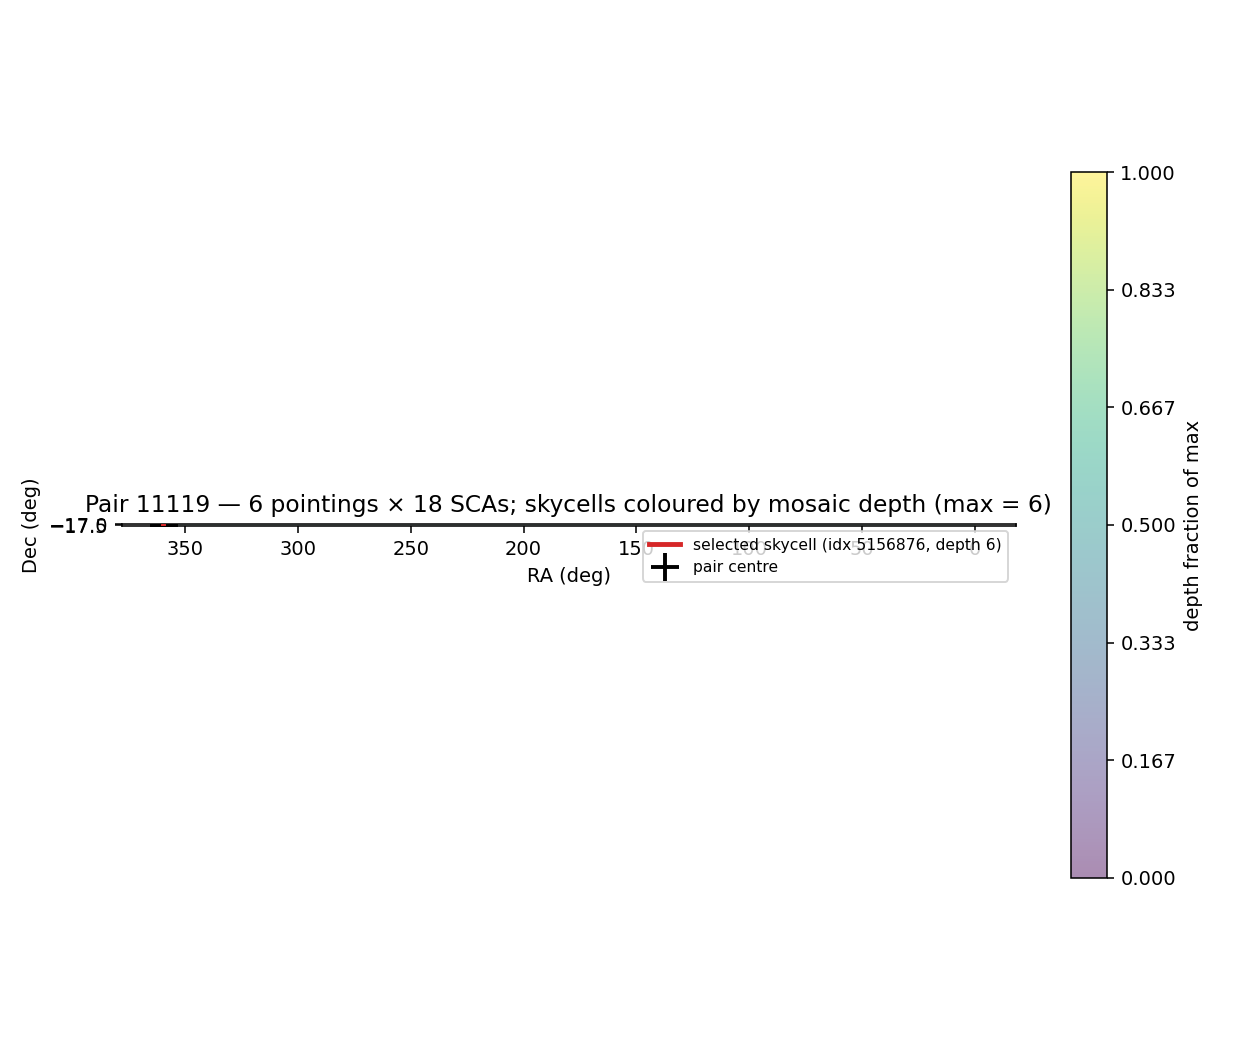
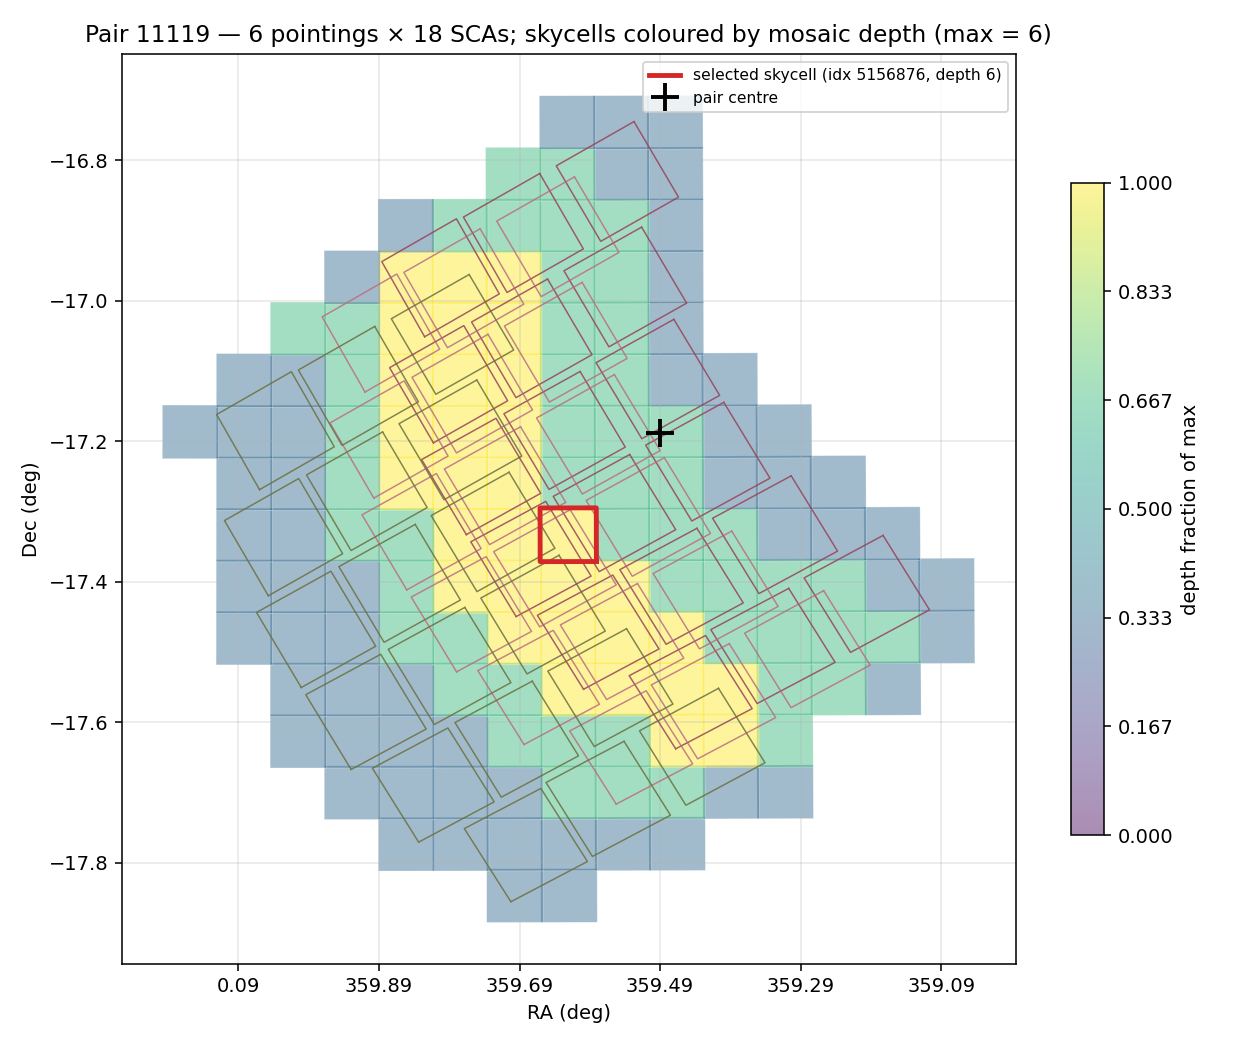
Phase 2: fix RA-wrap in coverage plot, add --n-skycells-per-pair
The per-pair coverage plot collapsed across the full 360° when the
pair sat near RA = 0° — polygon corners landed both at RA ≈ 359.x and
RA ≈ 0.x, and a naive `aspect='equal'` plot spanned 0→360°. Re-origin
all RA to (RA − pair-centre RA) wrapped to [−180°, +180°] when
drawing; relabel the x-axis ticks with the absolute RA (mod 360) so
the fix is transparent to the reader.

Also make the overlap table step idempotent: by default the script
now reads the ECSVs from a prior run. `--force` rebuilds from
scratch; `--plots-only` skips everything except plot regeneration.
Parameterise the pick with `--n-skycells-per-pair` so a future run
can increase from 1 to 2 or 5 without reworking the SCA loop.

diff --git a/scripts/detection/02_skycell_overlap.py b/scripts/detection/02_skycell_overlap.py
@@ -180,34 +180,45 @@ def enrich_with_skycell_meta(pt_table: pd.DataFrame) -> pd.DataFrame:
     return pt_table.merge(meta, on="skycell_idx")
 
 
-def select_one_skycell_per_pair(pt_table: pd.DataFrame,
-                                pointings: pd.DataFrame,
-                                target_depth: int = 6) -> pd.DataFrame:
-    """Pick one deepest + most-central skycell per pair."""
+def select_skycells_per_pair(pt_table: pd.DataFrame,
+                              pointings: pd.DataFrame,
+                              target_depth: int = 6,
+                              n_per_pair: int = 1) -> pd.DataFrame:
+    """Pick the `n_per_pair` deepest + most-central skycells per pair."""
     picks = []
     for pair_id, sub in pt_table.groupby("PAIR_ID"):
-        # Pair nominal centre = pointing RA/Dec (all 6 share centre)
         p_centre = pointings[pointings["PAIR_ID"] == pair_id].iloc[0]
         ra0, dec0 = p_centre["RA"], p_centre["DEC"]
-        # Must hit target_depth; if none, fall back to max depth in the pair
         max_depth = sub["n_pointings"].max()
         want = sub[sub["n_pointings"] == max(max_depth, target_depth)]
         if want.empty:
             want = sub[sub["n_pointings"] == max_depth]
-        # Central-most
         dra = np.minimum(np.abs(want["skycell_ra"] - ra0),
                          360.0 - np.abs(want["skycell_ra"] - ra0))
         ddec = np.abs(want["skycell_dec"] - dec0)
         d2 = (dra * np.cos(np.deg2rad(dec0))) ** 2 + ddec ** 2
-        best_idx = want.iloc[int(d2.values.argmin())]
-        picks.append(best_idx)
-    return pd.DataFrame(picks).reset_index(drop=True)
+        want = want.assign(_dist2=d2.values).sort_values("_dist2")
+        picks.append(want.head(n_per_pair).drop(columns="_dist2"))
+    return pd.concat(picks).reset_index(drop=True)
+
+
+def _ra_rel(ra: np.ndarray | float, ra0: float) -> np.ndarray | float:
+    """Return RA − ra0 wrapped to [−180°, +180°]. Used to draw near RA=0
+    without the 0/360 discontinuity collapsing the axis."""
+    return (np.asarray(ra) - ra0 + 180.0) % 360.0 - 180.0
 
 
 def plot_pair_coverage(pair_id: int, pointings: pd.DataFrame,
                        sca_table: pd.DataFrame, pt_table: pd.DataFrame,
                        selected_skycell_idx: int, out_path: Path) -> None:
-    """Per-pair coverage map: SCA footprints + skycell depth heat-map + pick."""
+    """Per-pair coverage map: SCA footprints + skycell depth heat-map + pick.
+
+    All RA coordinates are plotted as "RA − pair-centre RA", wrapped to
+    [−180°, +180°]. Axis ticks are relabelled with the absolute RA so
+    this is transparent to the reader. This is essential near RA = 0°:
+    without the re-origination, polygon corners at RA 359.x and 0.x
+    collapse the x-axis across 360°.
+    """
     import matplotlib.pyplot as plt
     from matplotlib.patches import Polygon
     from matplotlib.collections import PatchCollection
@@ -216,7 +227,9 @@ def plot_pair_coverage(pair_id: int, pointings: pd.DataFrame,
     sca_rows = sca_table[sca_table["PAIR_ID"] == pair_id]
     pt_rows = pt_table[pt_table["PAIR_ID"] == pair_id]
 
-    # SCA footprints
+    ra0, dec0 = ptr.iloc[0]["RA"], ptr.iloc[0]["DEC"]
+
+    # SCA footprints in absolute RA, converted to relative at plot time
     sca_polygons = {}
     for pidx, p in ptr.iterrows():
         world = galsim.CelestialCoord(p["RA"] * galsim.degrees,
@@ -228,7 +241,6 @@ def plot_pair_coverage(pair_id: int, pointings: pd.DataFrame,
             sca: sca_sky_corners(wcs) for sca, wcs in wcs_dict.items()
         }
 
-    # Skycell polygons (keyed by idx)
     skycell_idxs = pt_rows["skycell_idx"].unique().tolist()
     cells = SkyCells(skycell_idxs)
     skycell_corners = cells.radec_corners
@@ -236,13 +248,13 @@ def plot_pair_coverage(pair_id: int, pointings: pd.DataFrame,
 
     fig, ax = plt.subplots(figsize=(9, 7.5))
 
-    # Depth-coloured skycell polygons
     max_d = int(pt_rows["n_pointings"].max())
     cmap = plt.get_cmap("viridis")
     patches, colours = [], []
     for i, idx in enumerate(skycell_idxs):
-        poly = Polygon(skycell_corners[i], closed=True)
-        patches.append(poly)
+        rel_corners = skycell_corners[i].copy()
+        rel_corners[:, 0] = _ra_rel(rel_corners[:, 0], ra0)
+        patches.append(Polygon(rel_corners, closed=True))
         colours.append(depth_by_idx[idx] / max_d)
     pc = PatchCollection(patches, alpha=0.45, edgecolor="white", lw=0.3)
     pc.set_array(np.array(colours))
@@ -250,26 +262,25 @@ def plot_pair_coverage(pair_id: int, pointings: pd.DataFrame,
     pc.set_clim(0, 1)
     ax.add_collection(pc)
 
-    # SCA outlines, colour-coded by pointing
     pidx_list = sorted(sca_polygons.keys())
     pcmap = plt.get_cmap("tab10")
     for j, pidx in enumerate(pidx_list):
         for sca, corners in sca_polygons[pidx].items():
-            xy = np.vstack([corners, corners[:1]])
+            corners_rel = corners.copy()
+            corners_rel[:, 0] = _ra_rel(corners_rel[:, 0], ra0)
+            xy = np.vstack([corners_rel, corners_rel[:1]])
             ax.plot(xy[:, 0], xy[:, 1], color=pcmap(j % 10),
                     lw=0.7, alpha=0.6)
 
-    # Highlight the selected skycell
     sel_i = skycell_idxs.index(int(selected_skycell_idx))
-    sel_corners = skycell_corners[sel_i]
-    xy = np.vstack([sel_corners, sel_corners[:1]])
+    sel_rel = skycell_corners[sel_i].copy()
+    sel_rel[:, 0] = _ra_rel(sel_rel[:, 0], ra0)
+    xy = np.vstack([sel_rel, sel_rel[:1]])
     ax.plot(xy[:, 0], xy[:, 1], color="tab:red", lw=2.5, zorder=6,
             label=f"selected skycell (idx {selected_skycell_idx}, depth "
                   f"{depth_by_idx[int(selected_skycell_idx)]})")
 
-    # Pair centre
-    ra0, dec0 = ptr.iloc[0]["RA"], ptr.iloc[0]["DEC"]
-    ax.plot(ra0, dec0, "k+", markersize=14, mew=2, label="pair centre")
+    ax.plot(0, dec0, "k+", markersize=14, mew=2, label="pair centre")
 
     ax.set_xlabel("RA (deg)")
     ax.set_ylabel("Dec (deg)")
@@ -281,6 +292,11 @@ def plot_pair_coverage(pair_id: int, pointings: pd.DataFrame,
         f"Pair {pair_id} — 6 pointings × 18 SCAs; skycells coloured by "
         f"mosaic depth (max = {max_d})"
     )
+    # Relabel x-axis with absolute RA
+    def _rel_to_abs(x, pos):
+        return f"{(ra0 + x) % 360:.2f}"
+    from matplotlib.ticker import FuncFormatter
+    ax.xaxis.set_major_formatter(FuncFormatter(_rel_to_abs))
     fig.colorbar(pc, ax=ax, ticks=np.arange(max_d + 1) / max_d,
                  label="depth fraction of max", shrink=0.7)
     fig.tight_layout()
@@ -291,6 +307,12 @@ def plot_pair_coverage(pair_id: int, pointings: pd.DataFrame,
 def main():
     p = argparse.ArgumentParser()
     p.add_argument("--target-depth", type=int, default=6)
+    p.add_argument("--n-skycells-per-pair", type=int, default=1,
+                   help="how many depth-`target-depth` skycells to select per pair")
+    p.add_argument("--force", action="store_true",
+                   help="rebuild the SCA-level overlap table even if cached")
+    p.add_argument("--plots-only", action="store_true",
+                   help="only regenerate per-pair diagnostic plots from existing tables")
     args = p.parse_args()
 
     OUT_CAT.mkdir(parents=True, exist_ok=True)
@@ -298,40 +320,48 @@ def main():
 
     pointings = Table.read(POINTINGS_IN,
                            format="ascii.ecsv").to_pandas()
-    # Reset index so POINTING_IDX is stable
     pointings = pointings.sort_values(["PAIR_ID", "PASS", "EXPOSURE"]).reset_index(drop=True)
     print(f"Loaded {len(pointings)} pointings across "
           f"{pointings['PAIR_ID'].nunique()} pairs.")
 
-    print("\nBuilding SCA-level overlap table "
-          f"({len(pointings)} pointings × 18 SCAs)…")
-    sca_table = build_sca_overlap_table(pointings)
-    print(f"  {len(sca_table):,} (pointing, SCA, skycell) triples")
-    print(f"  distinct skycells touched: "
-          f"{sca_table['skycell_idx'].nunique():,}")
+    sca_ecsv = OUT_CAT / "skycell_overlap_sca.ecsv"
+    pt_ecsv = OUT_CAT / "skycell_overlap_pointing.ecsv"
+    if args.force or args.plots_only:
+        use_cache = args.plots_only
+    else:
+        use_cache = sca_ecsv.exists() and pt_ecsv.exists()
 
-    Table.from_pandas(sca_table).write(
-        OUT_CAT / "skycell_overlap_sca.ecsv",
-        format="ascii.ecsv", overwrite=True
-    )
+    if use_cache:
+        print(f"\nReading cached overlap tables from {OUT_CAT}/ "
+              "(use --force to rebuild)…")
+        sca_table = Table.read(sca_ecsv, format="ascii.ecsv").to_pandas()
+        pt_table = Table.read(pt_ecsv, format="ascii.ecsv").to_pandas()
+    else:
+        print("\nBuilding SCA-level overlap table "
+              f"({len(pointings)} pointings × 18 SCAs)…")
+        sca_table = build_sca_overlap_table(pointings)
+        print(f"  {len(sca_table):,} (pointing, SCA, skycell) triples")
+        print(f"  distinct skycells touched: "
+              f"{sca_table['skycell_idx'].nunique():,}")
+        Table.from_pandas(sca_table).write(sca_ecsv, format="ascii.ecsv",
+                                           overwrite=True)
 
-    print("\nAggregating to pointing level…")
-    pt_table = aggregate_to_pointing_level(sca_table, pointings)
-    pt_table = enrich_with_skycell_meta(pt_table)
-    print(f"  {len(pt_table):,} (pair, skycell) rows")
-    depth_counts = (pt_table.groupby("PAIR_ID")["n_pointings"]
-                    .apply(lambda s: (s == args.target_depth).sum()))
-    print(f"  depth-{args.target_depth} skycells per pair:")
-    for pid, cnt in depth_counts.items():
-        print(f"    pair {pid:5d}: {cnt} skycells")
+        print("\nAggregating to pointing level…")
+        pt_table = aggregate_to_pointing_level(sca_table, pointings)
+        pt_table = enrich_with_skycell_meta(pt_table)
+        print(f"  {len(pt_table):,} (pair, skycell) rows")
+        depth_counts = (pt_table.groupby("PAIR_ID")["n_pointings"]
+                        .apply(lambda s: (s == args.target_depth).sum()))
+        print(f"  depth-{args.target_depth} skycells per pair:")
+        for pid, cnt in depth_counts.items():
+            print(f"    pair {pid:5d}: {cnt} skycells")
+        Table.from_pandas(pt_table).write(pt_ecsv, format="ascii.ecsv",
+                                          overwrite=True)
 
-    Table.from_pandas(pt_table).write(
-        OUT_CAT / "skycell_overlap_pointing.ecsv",
-        format="ascii.ecsv", overwrite=True
-    )
-
-    print(f"\nSelecting 1 depth-{args.target_depth} skycell per pair…")
-    selected = select_one_skycell_per_pair(pt_table, pointings, args.target_depth)
+    print(f"\nSelecting {args.n_skycells_per_pair} depth-"
+          f"{args.target_depth} skycell(s) per pair…")
+    selected = select_skycells_per_pair(
+        pt_table, pointings, args.target_depth, args.n_skycells_per_pair)
     Table.from_pandas(selected).write(
         OUT_CAT / "selected_skycells.ecsv",
         format="ascii.ecsv", overwrite=True
